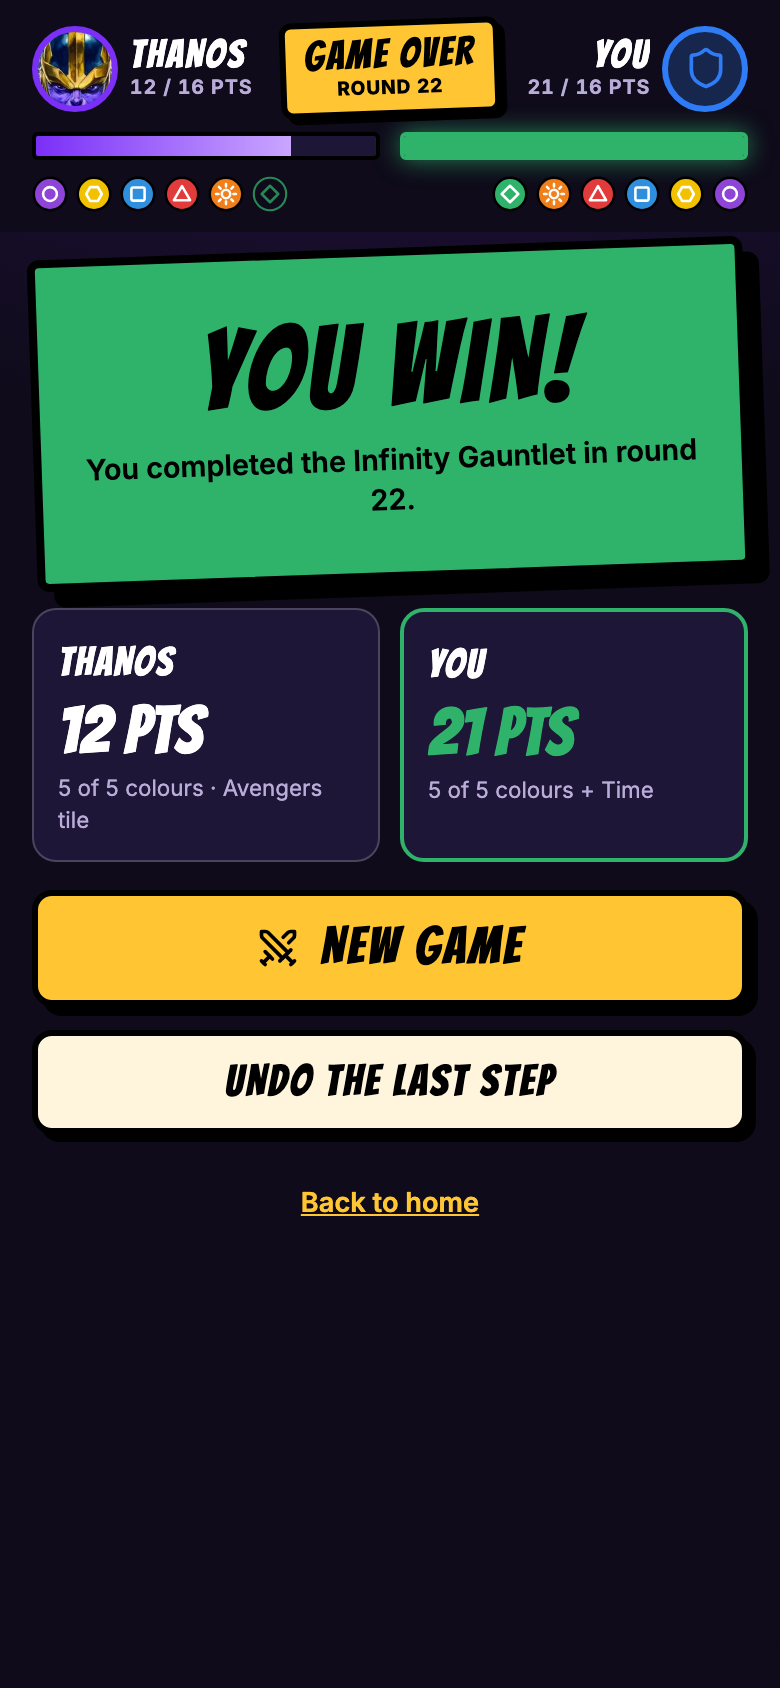
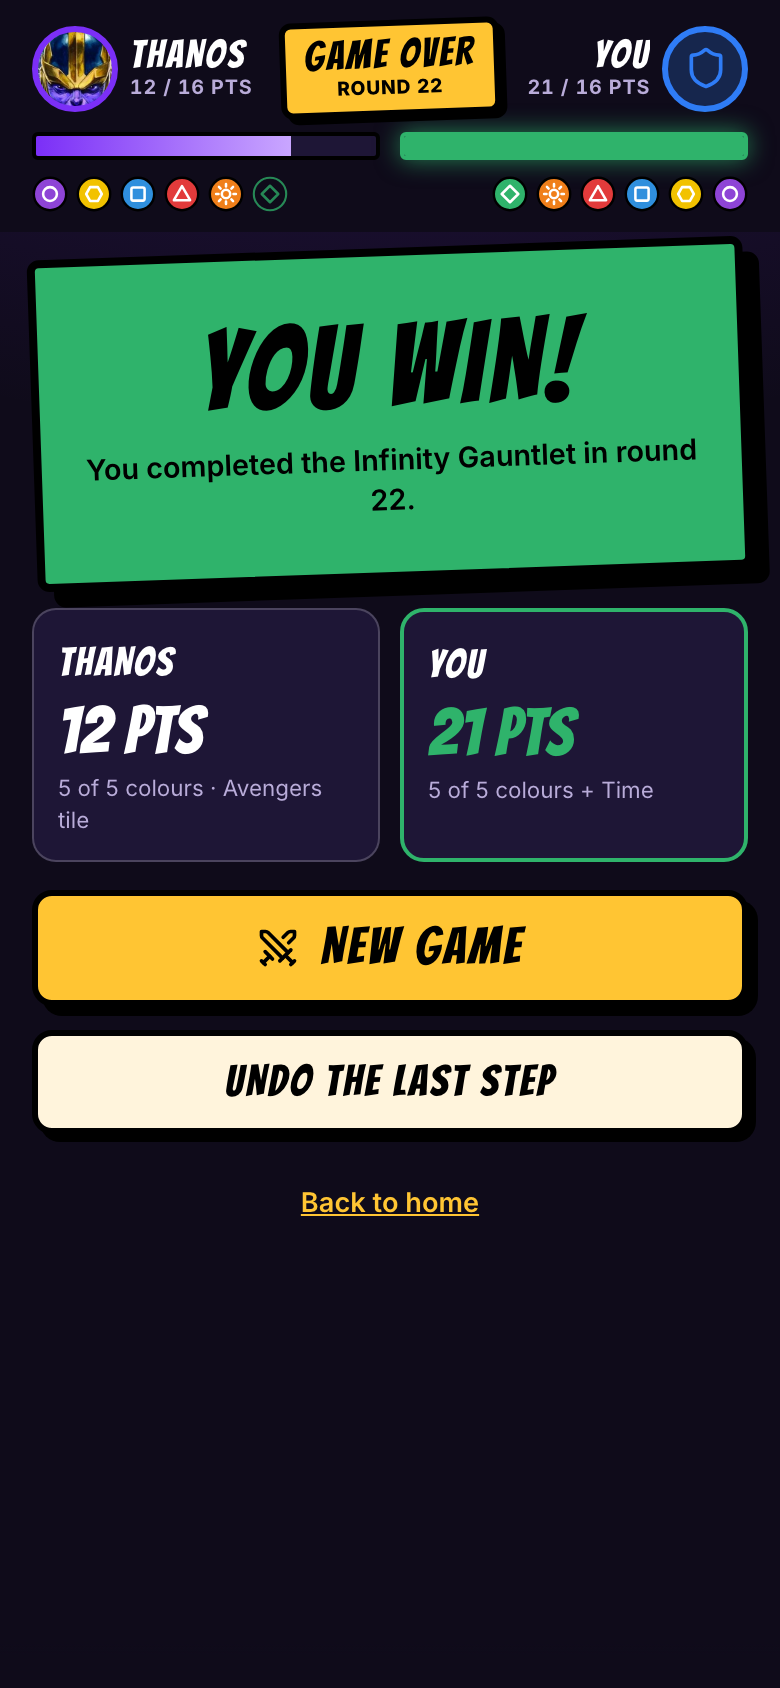
Crisper text on macOS: grayscale smoothing, outlines outside the letters (#62)

diff --git a/src/ui/game/game.module.css b/src/ui/game/game.module.css
@@ -63,14 +63,18 @@
   letter-spacing: 0.02em;
   line-height: 1;
   text-align: center;
-  -webkit-text-stroke: 1.5px #000;
+  /* The outline sits outside the letters instead of eating into them (#62). */
+  -webkit-text-stroke: 3px #000;
+  paint-order: stroke fill;
 }
 
 .question {
   color: #fff;
   font-size: 1.75rem;
   line-height: 1.05;
-  -webkit-text-stroke: 1px #000;
+  /* The outline sits outside the letters instead of eating into them (#62). */
+  -webkit-text-stroke: 2px #000;
+  paint-order: stroke fill;
 }
 
 .question[data-tone='gold'] {

diff --git a/src/ui/styles/global.css b/src/ui/styles/global.css
@@ -111,6 +111,10 @@ html {
   scroll-padding-bottom: 170px;
   /* Locking the page behind a sheet doesn't shift it sideways on desktop. */
   scrollbar-gutter: stable;
+  /* Light text on a dark ground: macOS thickens glyphs by default and they read as soft (#62).
+     No effect on other systems. */
+  -webkit-font-smoothing: antialiased;
+  -moz-osx-font-smoothing: grayscale;
 }
 
 body {

diff --git a/src/ui/components/game-kit.module.css b/src/ui/components/game-kit.module.css
@@ -329,7 +329,9 @@
   outline-offset: -2px;
   color: #fff;
   font-size: 0.95rem;
-  -webkit-text-stroke: 1px #000;
+  /* The outline sits outside the letters instead of eating into them (#62). */
+  -webkit-text-stroke: 2px #000;
+  paint-order: stroke fill;
 }
 
 /* Market map */

diff --git a/src/ui/home/home.module.css b/src/ui/home/home.module.css
@@ -186,7 +186,9 @@
 .screenTitle {
   font-size: 2.4rem;
   line-height: 1;
-  -webkit-text-stroke: 1px #000;
+  /* The outline sits outside the letters instead of eating into them (#62). */
+  -webkit-text-stroke: 2px #000;
+  paint-order: stroke fill;
 }
 
 .checklist {

diff --git a/docs/design.md b/docs/design.md
@@ -197,6 +197,11 @@ Components & states board, a user-flow map and a PWA checklist.
   pinned at the bottom, above the home indicator.
 - **Comic styling.** Bangers display type, Inter for body text, black outlines, hard offset shadows,
   gold, blue and red caption boxes, and a paper panel with a speech bubble for Thanos's move.
+- **Crisp text (#62).**
+  - Text uses grayscale antialiasing (`-webkit-font-smoothing: antialiased`). Without it, macOS
+    thickens light text on the dark ground and it reads as soft. Other systems ignore it.
+  - Outlined display text paints its black outline outside the letters (`paint-order: stroke fill`,
+    with the stroke doubled), so the outline doesn't eat into the letter shapes.
 - **Stones** are tokens: a coloured disc, a black outline and a white symbol. Pickers show the
   token-board numbers 1–5.
 - **Sheets.** Hoard (colour piles with a fix mode), Log, Menu (back to home, end the game, rules,
